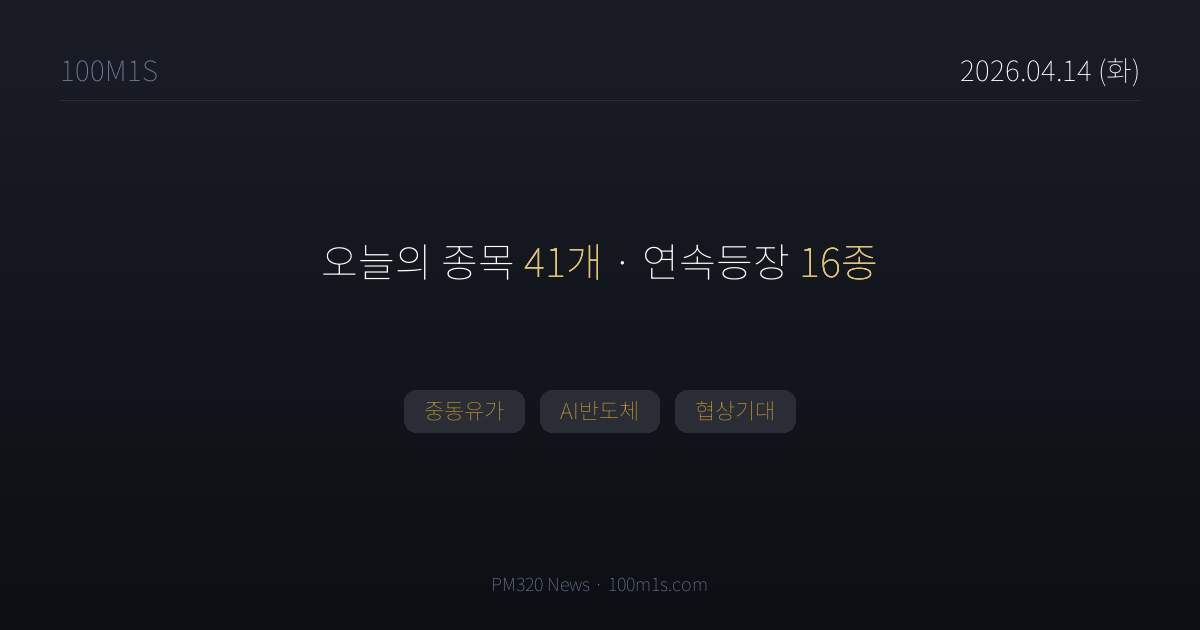
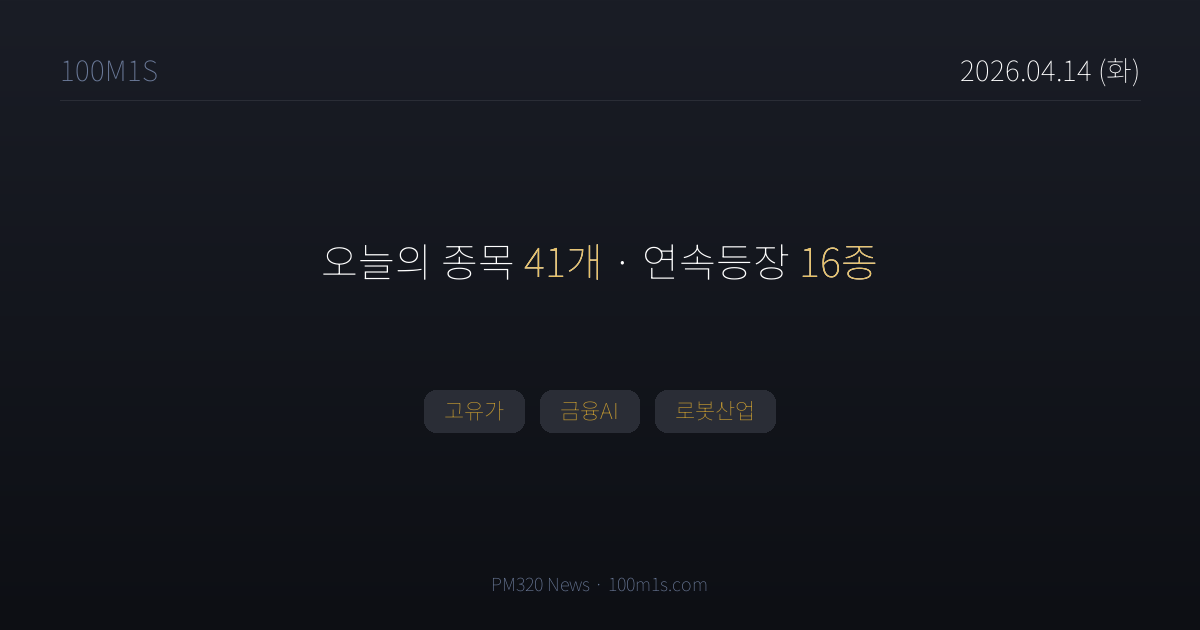
chore(news): 2026-04-14T18:52 pipeline

Changed region(s): [[0.4625, 0.6032, 0.6783, 0.6937], [0.3392, 0.6032, 0.4008, 0.6937]]

diff --git a/news/2026-04-14.html b/news/2026-04-14.html
@@ -4,7 +4,7 @@
 <meta charset="UTF-8">
 <title>4월 14일 (화) 뉴스 — 100M1S</title>
 <meta property="og:title" content="4월 14일 (화) · 종목 41개">
-<meta property="og:description" content="중동유가, AI반도체, 협상기대">
+<meta property="og:description" content="고유가, 금융AI, 로봇산업">
 <meta property="og:image" content="https://100m1s.com/og/2026-04-14.png">
 <meta property="og:image:width" content="1200">
 <meta property="og:image:height" content="630">
